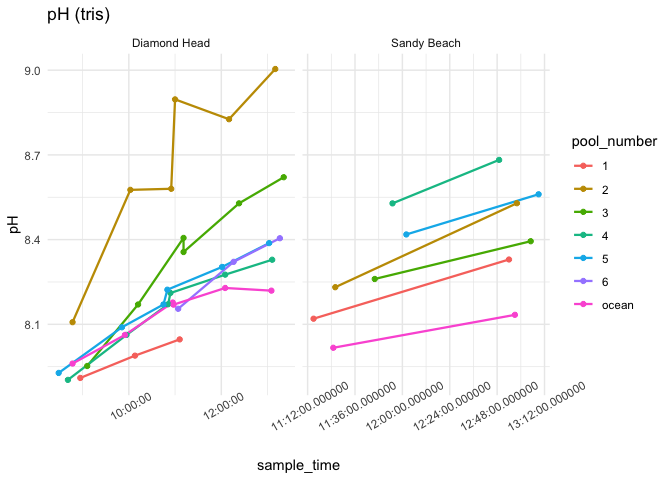
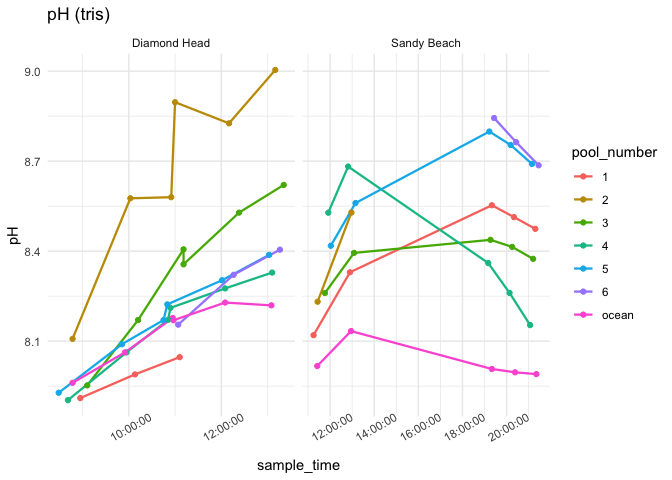
added night

diff --git a/Test Sampling/Scripts/first_analysis.md b/Test Sampling/Scripts/first_analysis.md
@@ -243,6 +243,12 @@ data %>% filter(site == "Diamond Head") %>%
 data %>% ggplot(aes(x = sample_time, y = TA_norm, color = pool_number)) +   facet_wrap(~site, scales = "free_x") + geom_line(linewidth = 0.8) + geom_point() + theme_minimal() + labs(title = "TA normalized")  + theme(axis.text.x = element_text(angle = 30))
 ```
 
+    ## Warning: Removed 18 rows containing missing values or values outside the scale range
+    ## (`geom_line()`).
+
+    ## Warning: Removed 18 rows containing missing values or values outside the scale range
+    ## (`geom_point()`).
+
 ![](first_analysis_files/figure-gfm/unnamed-chunk-18-1.png)<!-- -->
 
 ``` r
@@ -284,6 +290,12 @@ delta_calc %>% ggplot(aes(x = substrate, y = delta_TA, color = substrate)) + #, 
   geom_hline(yintercept = 0, linetype = "dashed", color = "gray")
 ```
 
+    ## Warning: Removed 6 rows containing non-finite outside the scale range
+    ## (`stat_boxplot()`).
+
+    ## Warning: Removed 6 rows containing missing values or values outside the scale range
+    ## (`geom_point()`).
+
 ![](first_analysis_files/figure-gfm/unnamed-chunk-22-1.png)<!-- -->
 
 ``` r
@@ -299,6 +311,12 @@ delta_calc2 %>% ggplot(aes(x = substrate, y = delta_TA, color = substrate)) + #,
   geom_hline(yintercept = 0, linetype = "dashed", color = "gray")
 ```
 
+    ## Warning: Removed 6 rows containing non-finite outside the scale range
+    ## (`stat_boxplot()`).
+
+    ## Warning: Removed 6 rows containing missing values or values outside the scale range
+    ## (`geom_point()`).
+
 ![](first_analysis_files/figure-gfm/unnamed-chunk-23-1.png)<!-- -->
 
 ``` r
@@ -313,6 +331,12 @@ delta_calc3 %>% ggplot(aes(x = substrate, y = delta_TA, color = substrate)) + #,
   labs(x = "Substrate", y = "Delta TA", title = "DH T3-T2") + 
   geom_hline(yintercept = 0, linetype = "dashed", color = "gray")
 ```
+
+    ## Warning: Removed 6 rows containing non-finite outside the scale range
+    ## (`stat_boxplot()`).
+
+    ## Warning: Removed 6 rows containing missing values or values outside the scale range
+    ## (`geom_point()`).
 
 ![](first_analysis_files/figure-gfm/unnamed-chunk-24-1.png)<!-- -->
 
@@ -375,6 +399,9 @@ delta_calc %>%
   labs(x = "Delta pH", y = "Delta TA", title = "DH T3-T1") 
 ```
 
+    ## Warning: Removed 5 rows containing missing values or values outside the scale range
+    ## (`geom_point()`).
+
 ![](first_analysis_files/figure-gfm/unnamed-chunk-28-1.png)<!-- -->
 
 ``` r
@@ -389,6 +416,9 @@ delta_calc2 %>%
   labs(x = "Delta pH", y = "Delta TA", title = "DH T2-T1") 
 ```
 
+    ## Warning: Removed 5 rows containing missing values or values outside the scale range
+    ## (`geom_point()`).
+
 ![](first_analysis_files/figure-gfm/unnamed-chunk-29-1.png)<!-- -->
 
 ``` r
@@ -402,6 +432,9 @@ delta_calc3 %>%
   guides(color = "none") +
   labs(x = "Delta pH", y = "Delta TA", title = "DH T3-T2") 
 ```
+
+    ## Warning: Removed 5 rows containing missing values or values outside the scale range
+    ## (`geom_point()`).
 
 ![](first_analysis_files/figure-gfm/unnamed-chunk-30-1.png)<!-- -->
 
@@ -436,22 +469,22 @@ summary(model1)
     ##     data = data)
     ## 
     ## Residuals:
-    ##      Min       1Q   Median       3Q      Max 
-    ## -0.29139 -0.12504 -0.02194  0.06914  0.54278 
+    ##     Min      1Q  Median      3Q     Max 
+    ## -0.3354 -0.1593 -0.0491  0.1188  0.5532 
     ## 
     ## Coefficients:
     ##                   Estimate Std. Error t value Pr(>|t|)    
-    ## (Intercept)      6.892e+00  2.588e-01  26.636  < 2e-16 ***
-    ## sample_time      3.952e-05  6.369e-06   6.205 5.28e-07 ***
-    ## perimeter_m     -4.310e-02  1.977e-02  -2.180   0.0365 *  
-    ## surface_area_m2  5.123e-02  3.617e-02   1.416   0.1661    
+    ## (Intercept)      8.004e+00  1.204e-01  66.506  < 2e-16 ***
+    ## sample_time      1.053e-05  2.580e-06   4.082 0.000181 ***
+    ## perimeter_m     -1.713e-02  1.685e-02  -1.016 0.314862    
+    ## surface_area_m2 -7.581e-03  2.876e-02  -0.264 0.793314    
     ## ---
     ## Signif. codes:  0 '***' 0.001 '**' 0.01 '*' 0.05 '.' 0.1 ' ' 1
     ## 
-    ## Residual standard error: 0.1924 on 33 degrees of freedom
-    ##   (11 observations deleted due to missingness)
-    ## Multiple R-squared:  0.5557, Adjusted R-squared:  0.5153 
-    ## F-statistic: 13.76 on 3 and 33 DF,  p-value: 5.485e-06
+    ## Residual standard error: 0.2332 on 45 degrees of freedom
+    ##   (17 observations deleted due to missingness)
+    ## Multiple R-squared:  0.2763, Adjusted R-squared:  0.228 
+    ## F-statistic: 5.727 on 3 and 45 DF,  p-value: 0.002084
 
 ``` r
 Anova(model1)
@@ -461,10 +494,10 @@ Anova(model1)
     ## 
     ## Response: pH
     ##                  Sum Sq Df F value    Pr(>F)    
-    ## sample_time     1.42493  1 38.5072 5.277e-07 ***
-    ## perimeter_m     0.17590  1  4.7534   0.03648 *  
-    ## surface_area_m2 0.07421  1  2.0055   0.16610    
-    ## Residuals       1.22114 33                      
+    ## sample_time     0.90606  1 16.6627 0.0001806 ***
+    ## perimeter_m     0.05618  1  1.0331 0.3148620    
+    ## surface_area_m2 0.00378  1  0.0695 0.7933137    
+    ## Residuals       2.44693 45                      
     ## ---
     ## Signif. codes:  0 '***' 0.001 '**' 0.01 '*' 0.05 '.' 0.1 ' ' 1
 
@@ -494,7 +527,7 @@ summary(model2)
     ## Signif. codes:  0 '***' 0.001 '**' 0.01 '*' 0.05 '.' 0.1 ' ' 1
     ## 
     ## Residual standard error: 105.2 on 33 degrees of freedom
-    ##   (11 observations deleted due to missingness)
+    ##   (29 observations deleted due to missingness)
     ## Multiple R-squared:  0.5335, Adjusted R-squared:  0.4911 
     ## F-statistic: 12.58 on 3 and 33 DF,  p-value: 1.206e-05
 
@@ -526,18 +559,19 @@ summary(model3)
     ## 
     ## Residuals:
     ##      Min       1Q   Median       3Q      Max 
-    ## -0.29076 -0.08690 -0.00893  0.06289  0.33271 
+    ## -0.29076 -0.08695 -0.00893  0.06294  0.33282 
     ## 
     ## Coefficients:
     ##               Estimate Std. Error t value Pr(>|t|)    
-    ## (Intercept) 11.7257184  0.3200603   36.64  < 2e-16 ***
-    ## TA          -0.0015891  0.0001477  -10.76 3.82e-14 ***
+    ## (Intercept) 11.7248703  0.3200616   36.63  < 2e-16 ***
+    ## TA          -0.0015887  0.0001477  -10.75 3.85e-14 ***
     ## ---
     ## Signif. codes:  0 '***' 0.001 '**' 0.01 '*' 0.05 '.' 0.1 ' ' 1
     ## 
     ## Residual standard error: 0.139 on 46 degrees of freedom
-    ## Multiple R-squared:  0.7155, Adjusted R-squared:  0.7093 
-    ## F-statistic: 115.7 on 1 and 46 DF,  p-value: 3.82e-14
+    ##   (18 observations deleted due to missingness)
+    ## Multiple R-squared:  0.7154, Adjusted R-squared:  0.7092 
+    ## F-statistic: 115.6 on 1 and 46 DF,  p-value: 3.852e-14
 
 ### pH vs substrate
 
@@ -552,20 +586,20 @@ summary(model4)
     ## 
     ## Residuals:
     ##      Min       1Q   Median       3Q      Max 
-    ## -0.42806 -0.15143 -0.00478  0.10050  0.67432 
+    ## -0.50447 -0.12449 -0.02583  0.09452  0.67426 
     ## 
     ## Coefficients:
     ##                             Estimate Std. Error t value Pr(>|t|)    
-    ## (Intercept)                  8.38051    0.05897 142.120   <2e-16 ***
-    ## substratelimestone          -0.05073    0.07827  -0.648   0.5203    
-    ## substratelimestone + basalt -0.39857    0.14840  -2.686   0.0102 *  
-    ## substrateocean              -0.25939    0.10214  -2.540   0.0147 *  
+    ## (Intercept)                  8.45701    0.04138 204.357  < 2e-16 ***
+    ## substratelimestone          -0.12721    0.06512  -1.953  0.05529 .  
+    ## substratelimestone + basalt -0.47498    0.13932  -3.409  0.00115 ** 
+    ## substrateocean              -0.36948    0.08086  -4.569 2.39e-05 ***
     ## ---
     ## Signif. codes:  0 '***' 0.001 '**' 0.01 '*' 0.05 '.' 0.1 ' ' 1
     ## 
-    ## Residual standard error: 0.2359 on 44 degrees of freedom
-    ## Multiple R-squared:  0.2167, Adjusted R-squared:  0.1633 
-    ## F-statistic: 4.057 on 3 and 44 DF,  p-value: 0.01248
+    ## Residual standard error: 0.2304 on 62 degrees of freedom
+    ## Multiple R-squared:  0.3144, Adjusted R-squared:  0.2812 
+    ## F-statistic: 9.476 on 3 and 62 DF,  p-value: 3.054e-05
 
 ``` r
 Anova(model4)
@@ -578,9 +612,9 @@ Anova(model4)
     ## Anova Table (Type II tests)
     ## 
     ## Response: pH
-    ##            Sum Sq Df F value  Pr(>F)  
-    ## substrate 0.67718  3  4.0573 0.01248 *
-    ## Residuals 2.44794 44                  
+    ##           Sum Sq Df F value    Pr(>F)    
+    ## substrate 1.5093  3  9.4762 3.054e-05 ***
+    ## Residuals 3.2916 62                      
     ## ---
     ## Signif. codes:  0 '***' 0.001 '**' 0.01 '*' 0.05 '.' 0.1 ' ' 1
 
@@ -609,6 +643,7 @@ summary(model5)
     ## Signif. codes:  0 '***' 0.001 '**' 0.01 '*' 0.05 '.' 0.1 ' ' 1
     ## 
     ## Residual standard error: 120.1 on 44 degrees of freedom
+    ##   (18 observations deleted due to missingness)
     ## Multiple R-squared:  0.283,  Adjusted R-squared:  0.2341 
     ## F-statistic: 5.789 on 3 and 44 DF,  p-value: 0.001998
 
@@ -626,5 +661,50 @@ Anova(model5)
     ##           Sum Sq Df F value   Pr(>F)   
     ## substrate 250587  3  5.7888 0.001998 **
     ## Residuals 634889 44                    
+    ## ---
+    ## Signif. codes:  0 '***' 0.001 '**' 0.01 '*' 0.05 '.' 0.1 ' ' 1
+
+### temp vs substrate
+
+``` r
+model6 <- lm(temp_pool ~ substrate, data)
+summary(model6)
+```
+
+    ## 
+    ## Call:
+    ## lm(formula = temp_pool ~ substrate, data = data)
+    ## 
+    ## Residuals:
+    ##     Min      1Q  Median      3Q     Max 
+    ## -4.4389 -2.4389  0.0333  1.7083  8.4201 
+    ## 
+    ## Coefficients:
+    ##                             Estimate Std. Error t value Pr(>|t|)    
+    ## (Intercept)                  26.4389     0.5336  49.545   <2e-16 ***
+    ## substratelimestone            1.9278     0.8397   2.296   0.0251 *  
+    ## substratelimestone + basalt  -0.6389     1.7965  -0.356   0.7233    
+    ## substrateocean               -1.0231     1.0427  -0.981   0.3303    
+    ## ---
+    ## Signif. codes:  0 '***' 0.001 '**' 0.01 '*' 0.05 '.' 0.1 ' ' 1
+    ## 
+    ## Residual standard error: 2.971 on 62 degrees of freedom
+    ## Multiple R-squared:  0.1268, Adjusted R-squared:  0.08455 
+    ## F-statistic: 3.001 on 3 and 62 DF,  p-value: 0.03717
+
+``` r
+Anova(model6)
+```
+
+    ## Warning in printHypothesis(L, rhs, names(b)): one or more coefficients in the hypothesis include
+    ##      arithmetic operators in their names;
+    ##   the printed representation of the hypothesis will be omitted
+
+    ## Anova Table (Type II tests)
+    ## 
+    ## Response: temp_pool
+    ##           Sum Sq Df F value  Pr(>F)  
+    ## substrate  79.48  3  3.0012 0.03717 *
+    ## Residuals 547.32 62                  
     ## ---
     ## Signif. codes:  0 '***' 0.001 '**' 0.01 '*' 0.05 '.' 0.1 ' ' 1
